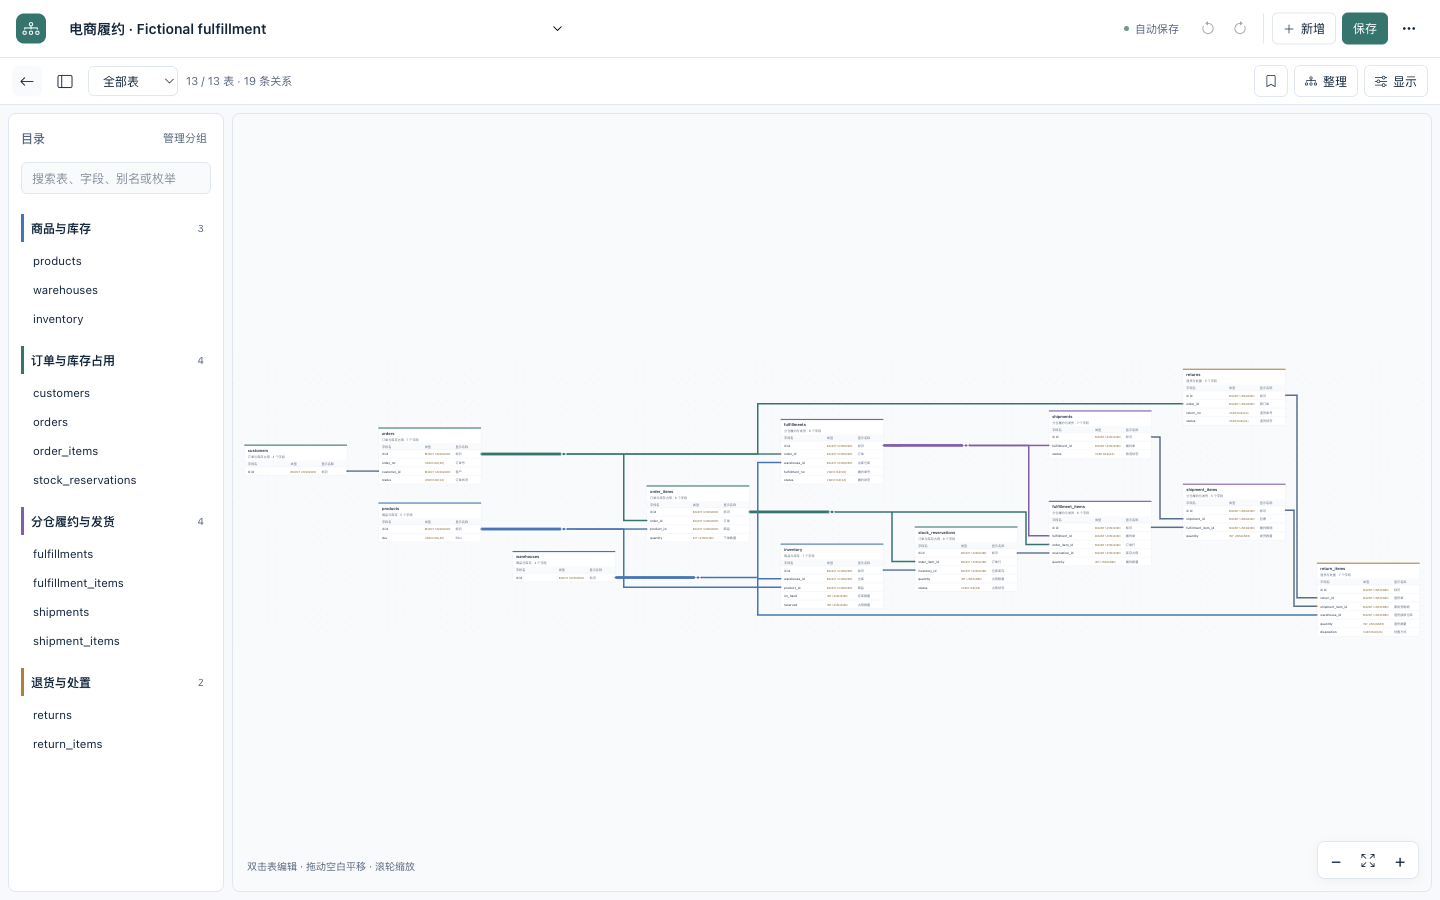
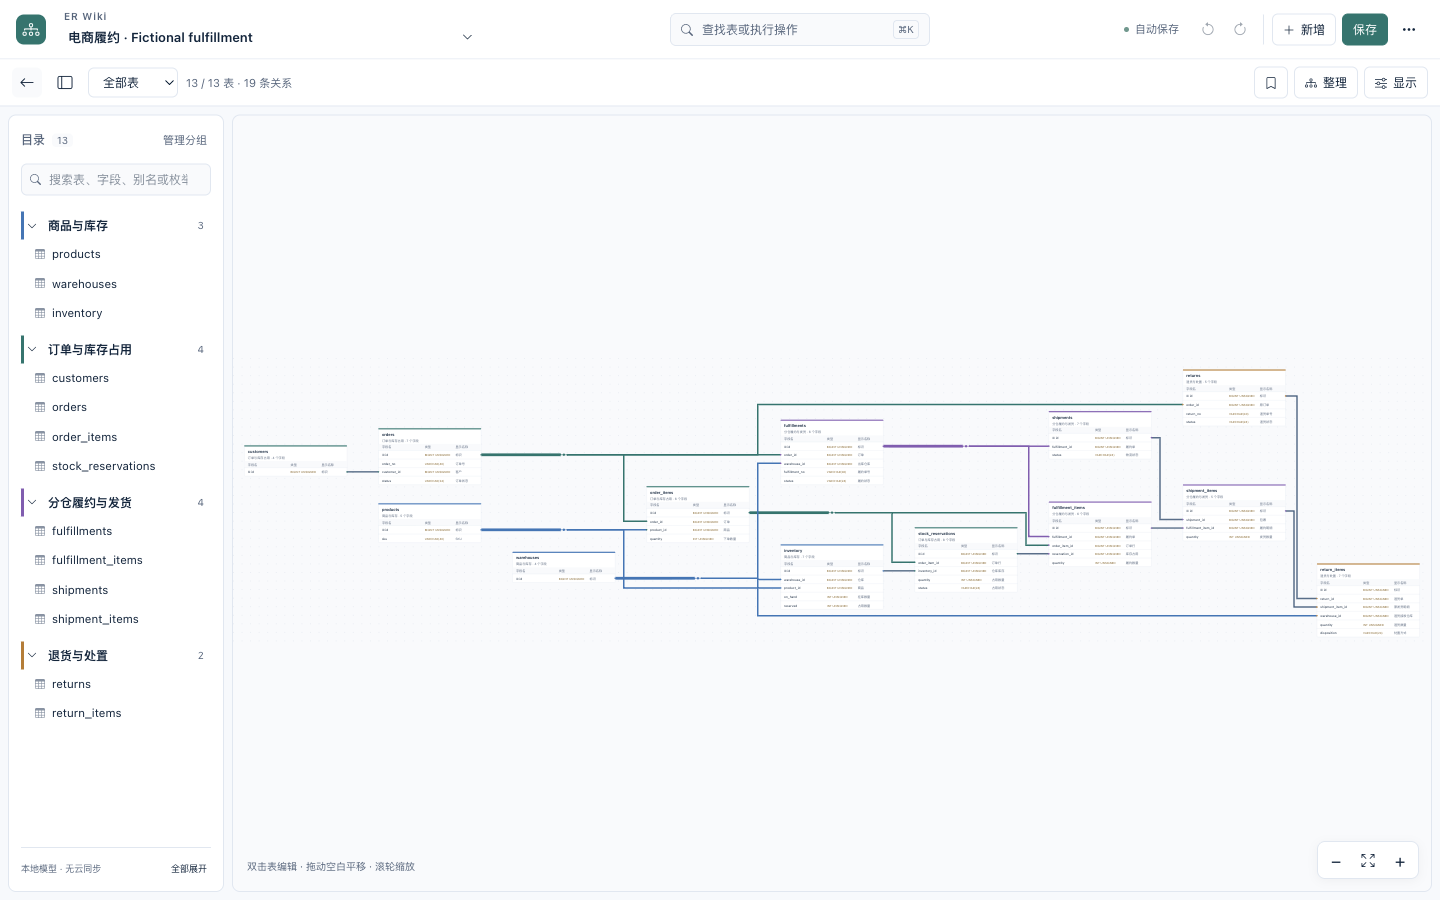
docs: refresh real workbench snapshots and verification evidence

diff --git a/docs/VERIFICATION-workbench.md b/docs/VERIFICATION-workbench.md
@@ -1,0 +1,37 @@
+# Workbench iteration verification
+
+Code checkpoint: `4e571cd` (core workbench change `64e886a`), version `0.2.0-preview.2`.
+Recorded 2026-09-12. Public PR and CI evidence must be read separately for the
+latest pushed head.
+
+## Evidence collected locally
+
+- 28 Node tests passed with no skipped tests. New cases cover every preload invoke
+  channel's untrusted-frame rejection, correlated command replies/timeouts, dialog
+  serialization, worker cancellation/deadlines, command availability, directory
+  preference compatibility, focus geometry and Windows path normalization.
+- Focused Electron checks passed: English/Chinese native menus, model preservation,
+  field editing without geometry movement, model-switch/reload view recovery,
+  backups and restore-as-copy, SQL import, SVG/PNG export and the offline DBML editor.
+- New desktop behavior passed: folding a directory group retained all 13 global
+  tables; keyboard quick search found and focused `products.sku`; the compact
+  header had no document overflow or control overlap at 980px.
+- Production renderer build and macOS ARM64 package completed; ad-hoc codesign
+  verification passed. The package was then used directly for six real screenshots
+  and application SVG export.
+- Capture checked the packaged runtime-source hashes against the checkout and
+  compared every demo table, field, relation and group before/after capture.
+  The canonical example remains 13 tables / 19 relations, with unchanged save time.
+- jscpd 5.2.0 scanned 44 source files, including the original entry/workspace/header
+  and extracted modules, at a minimum of 6 lines / 80 tokens. No clones were found.
+  A separate three-file scan confirmed the original entry files were all recognized.
+- The targeted publication guard and Gitleaks renderer scan passed. The renderer
+  scan covered approximately 38.03 MB; it did not exclude whole bundles.
+
+## Limits
+
+This is not an independent security audit, exhaustive UI acceptance, Windows
+runtime verification or Apple Developer ID notarization. No private models,
+production data or old canvas regression suite were used. Native signing remains
+ad-hoc and application updates remain manual. This record does not imply a merge
+to main or publication of a binary release.

diff --git a/README.md b/README.md
@@ -32,7 +32,7 @@ The included example models **products and warehouse stock → order reservation
 split fulfillment → parcel shipment → returns**. It has 13 tables and supports
 multi-warehouse allocation and partial shipments at the schema level.
 
-These are real screenshots of the local **0.2.0-preview.1 macOS desktop app**,
+These are real screenshots of the local **0.2.0-preview.2 macOS desktop app**,
 loaded with the example JSON below. They are not a separately drawn mockup.
 
 ![Actual ER Wiki desktop: all 13 fulfillment tables](docs/images/fulfillment-desktop-en.png)
@@ -40,6 +40,10 @@ loaded with the example JSON below. They are not a separately drawn mockup.
 The same model in the actual table editor, including field names, types and display names:
 
 ![Actual ER Wiki desktop: editing the orders table](docs/images/fulfillment-editor-en.png)
+
+Quick search uses the same model and real desktop UI:
+
+![Actual ER Wiki desktop: quick field lookup](docs/images/fulfillment-search-en.png)
 
 [Model JSON](examples/fulfillment.drawdb.json) · [Example DDL](examples/fulfillment.sql)
 · [Reading guide](examples/README.md) · [SVG exported by the app](docs/images/fulfillment.svg)

diff --git a/README.zh-CN.md b/README.zh-CN.md
@@ -33,7 +33,7 @@
 - 分仓履约、包裹及部分发货；
 - 退货申请、退货明细与入库处置。
 
-以下为本地 **0.2.0-preview.1 macOS 桌面应用的真实截图**，加载的就是下方示例 JSON，
+以下为本地 **0.2.0-preview.2 macOS 桌面应用的真实截图**，加载的就是下方示例 JSON，
 不是另一套绘图脚本生成的示意图。
 
 ![真实桌面界面：电商履约全部 13 张表](docs/images/fulfillment-desktop-zh.png)
@@ -41,6 +41,10 @@
 同一模型的真实表编辑界面，展示字段名、类型、显示名称三列：
 
 ![真实桌面界面：编辑 orders 表](docs/images/fulfillment-editor-zh.png)
+
+同一模型的快速查找，可直接定位到表和字段：
+
+![真实桌面界面：快速查找字段](docs/images/fulfillment-search-zh.png)
 
 可直接查看 [DDL](examples/fulfillment.sql)、
 [模型 JSON](examples/fulfillment.drawdb.json)、[阅读说明](examples/README.md)、
